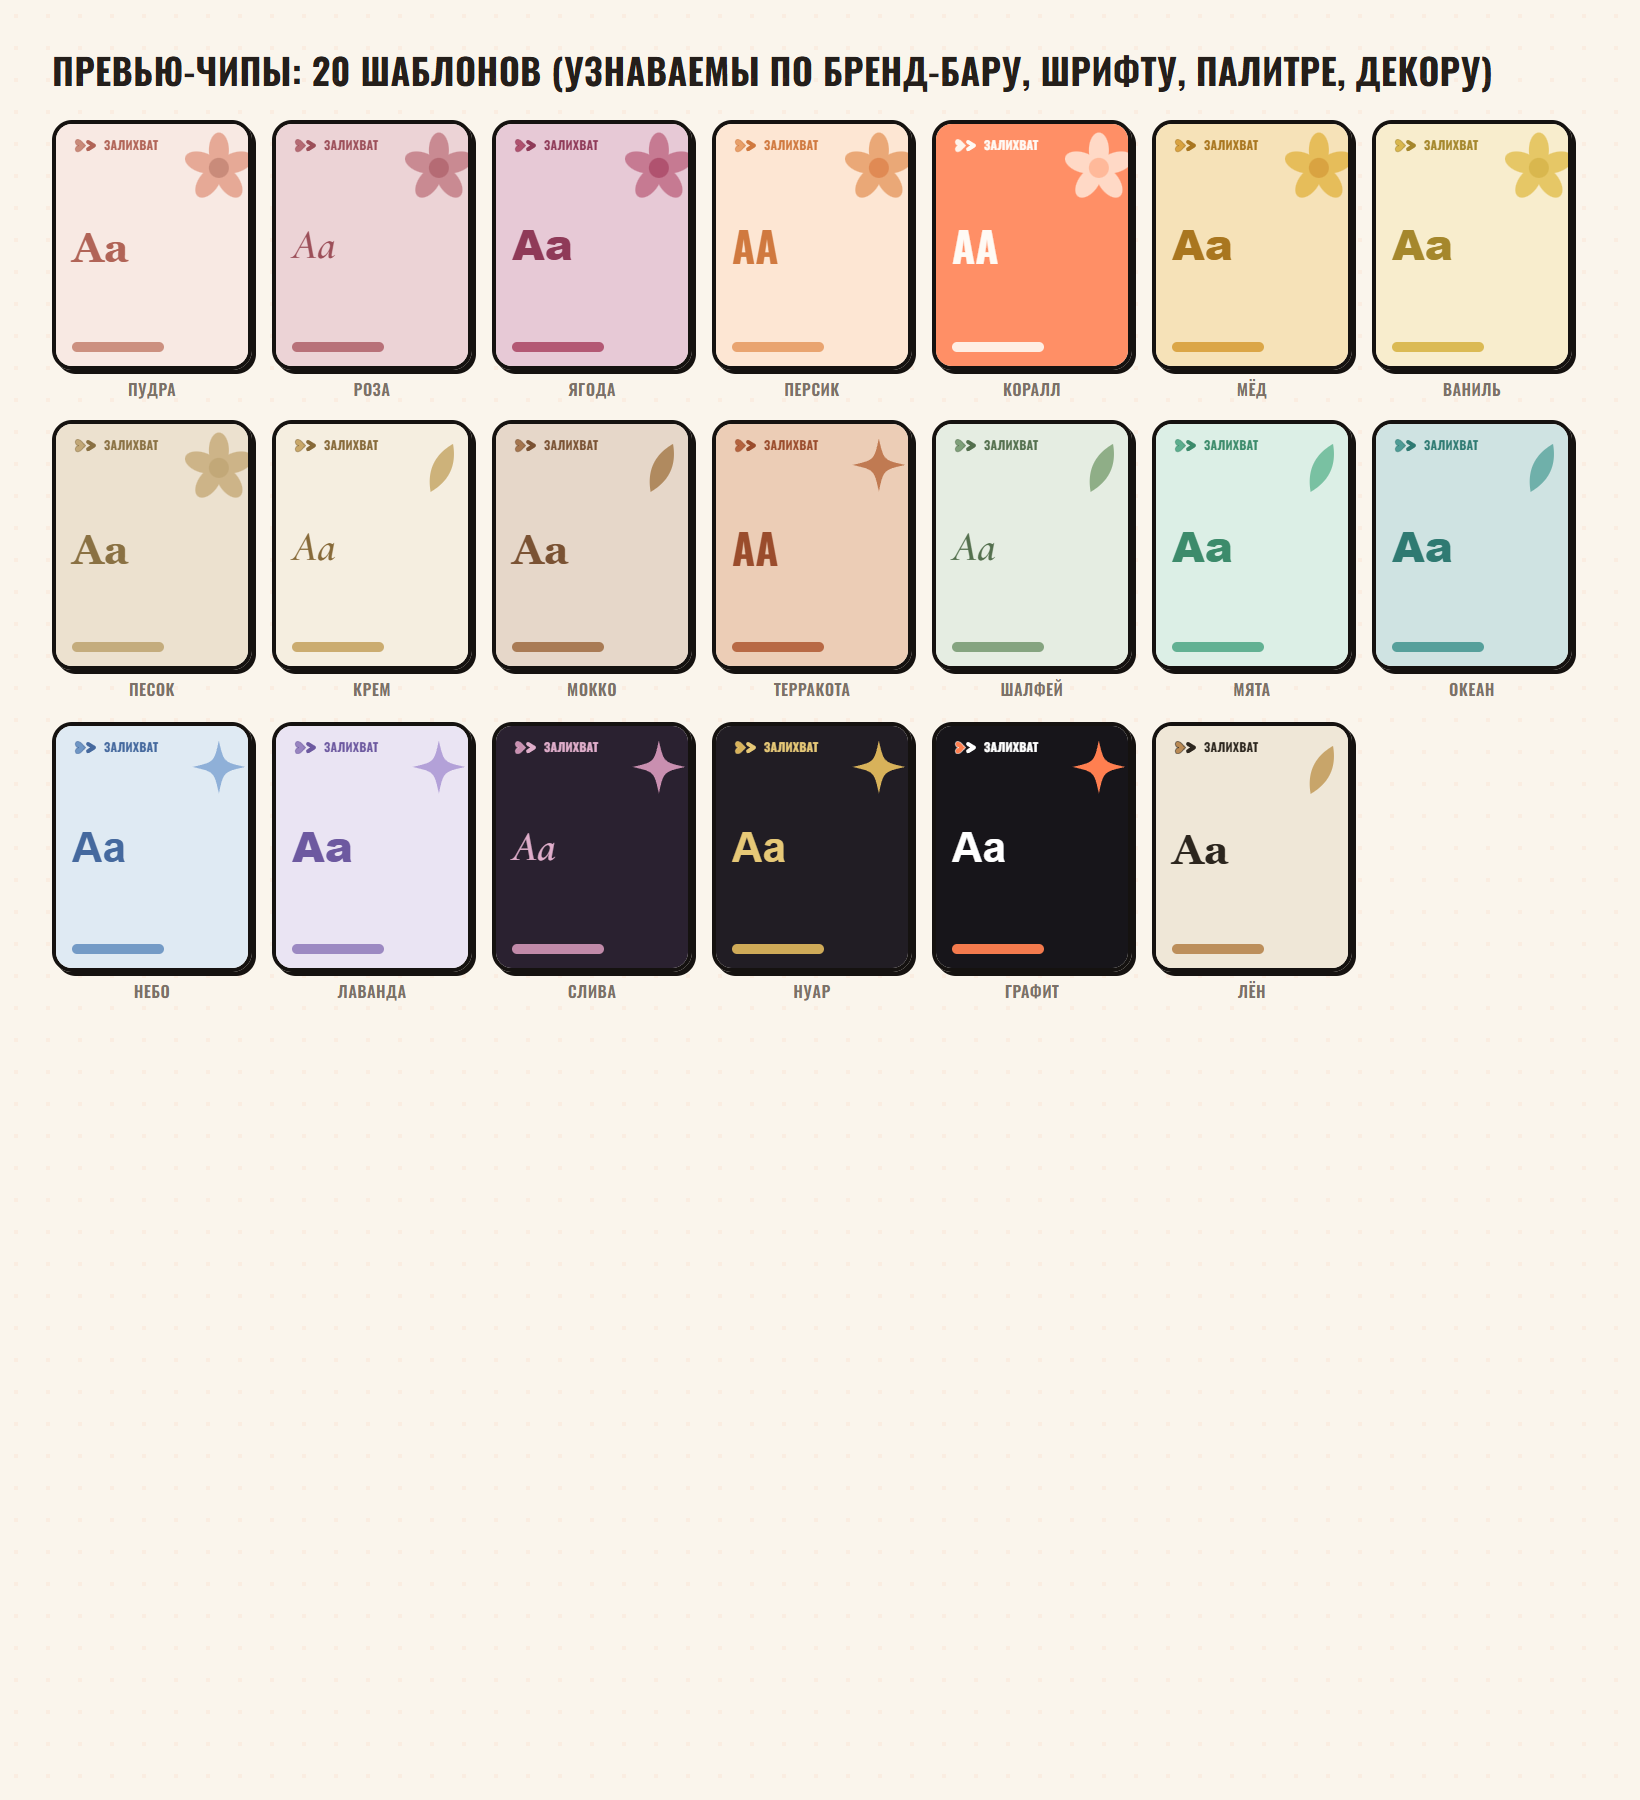
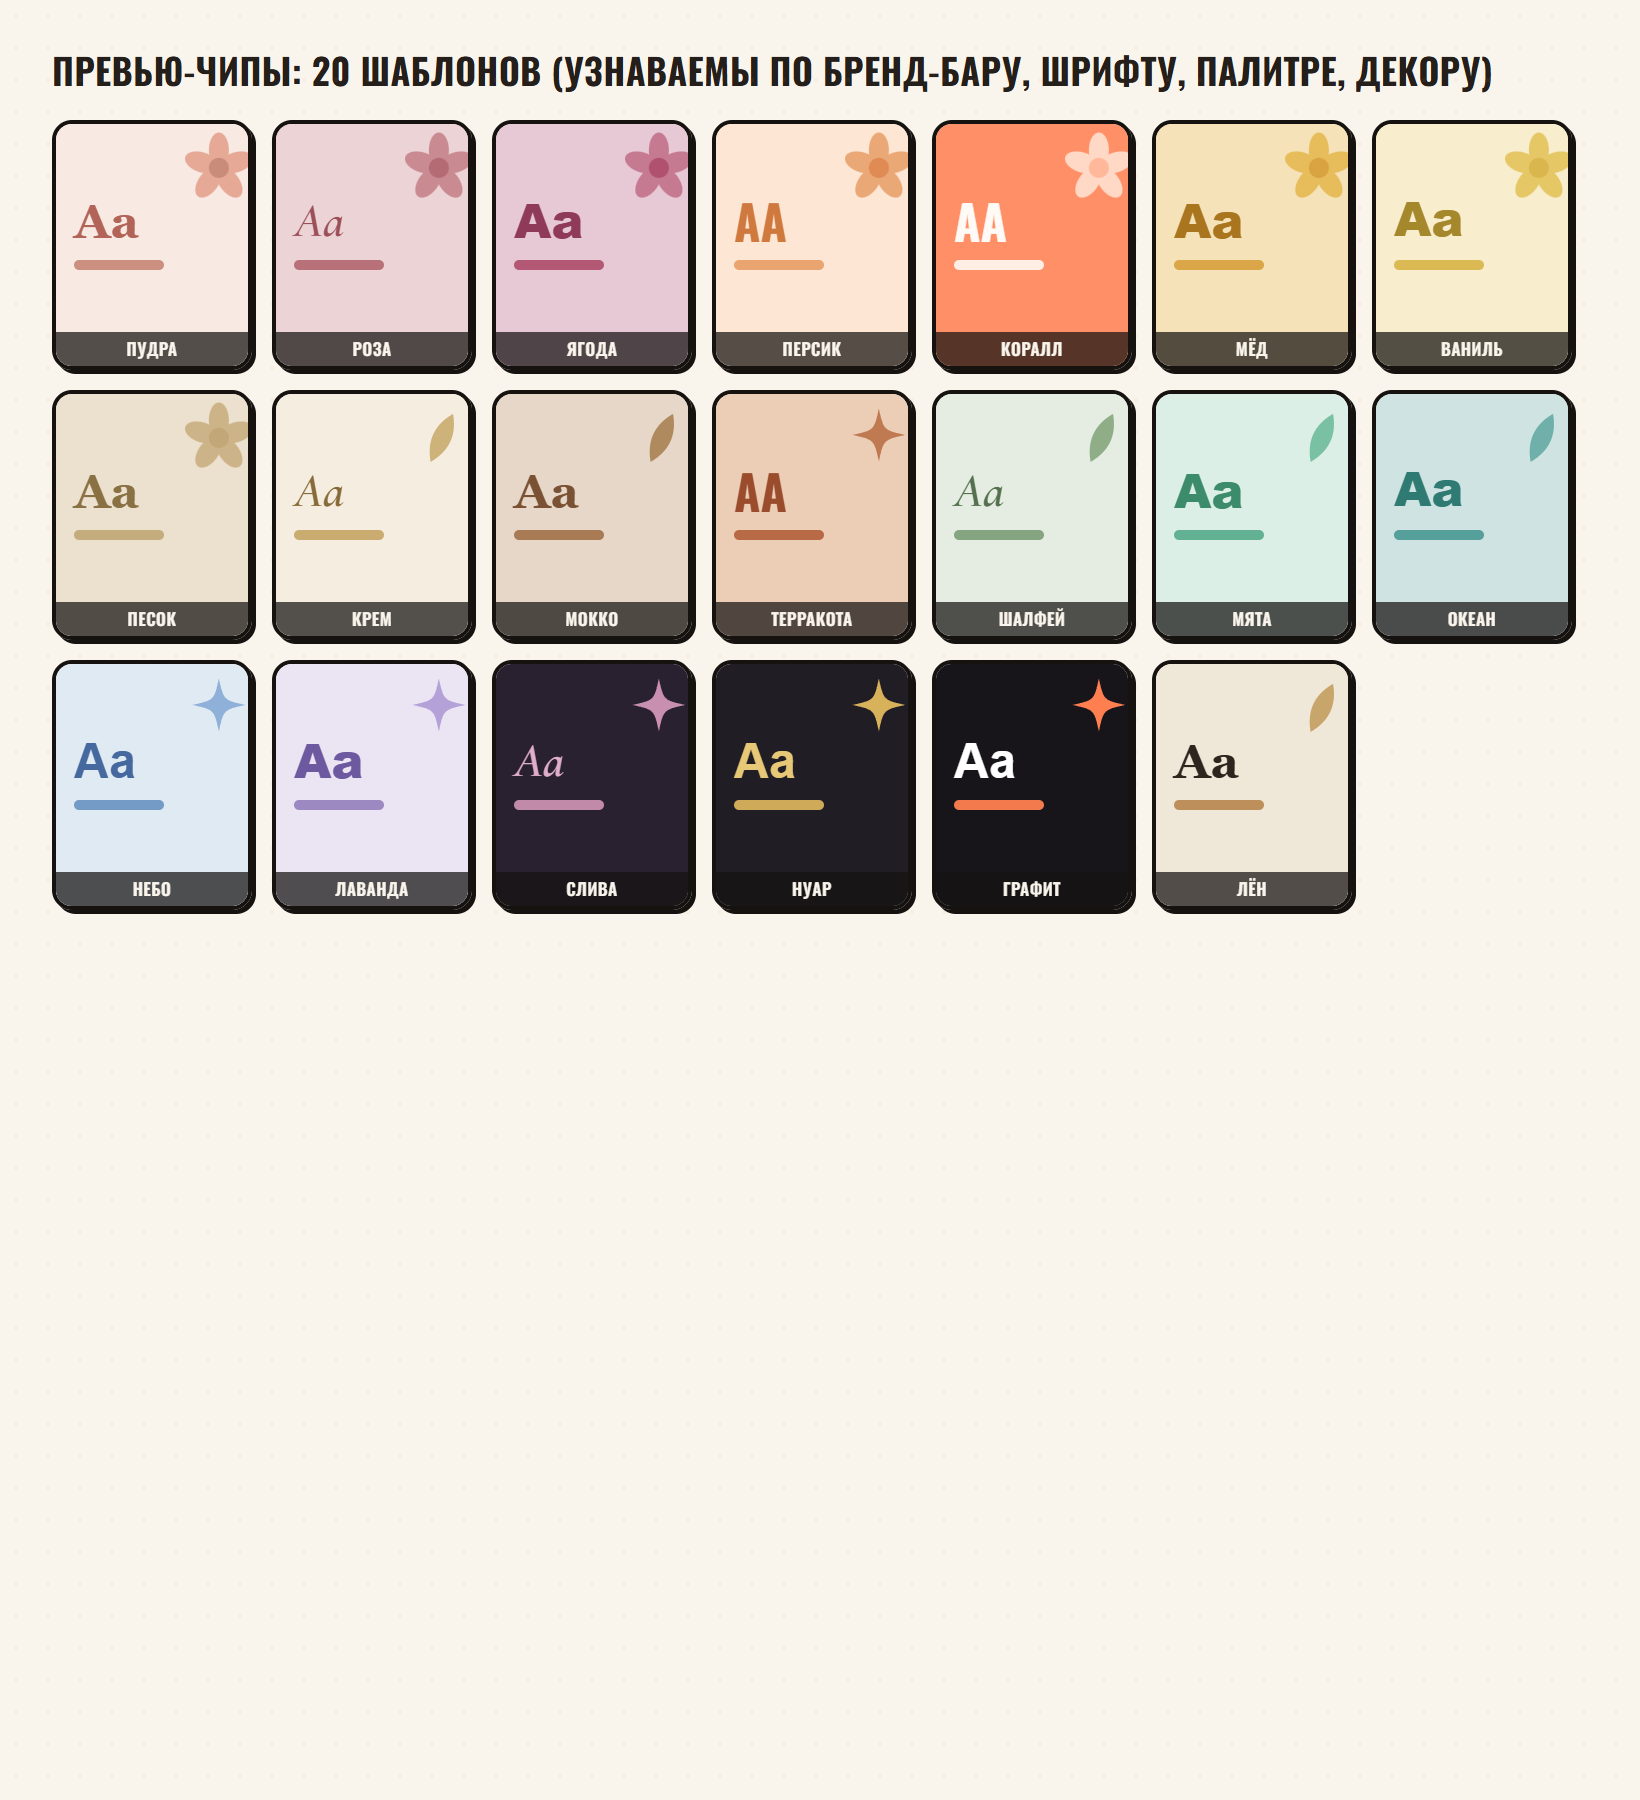
Шаблоны: убрать нашу брендировку со слайдов (Залихват/aksalex.com/@zalihvat_ai) - чистый дизайн+текст пользователя, оставлен номер слайда; чипы без бренд-бара, фикс перекрытия названия; регистрация 10→5 минут

diff --git a/app/frontend/styles.css b/app/frontend/styles.css
@@ -182,12 +182,9 @@ em{font-style:normal;color:var(--coral)}
 .cdchip{cursor:pointer;border:2.5px solid var(--ink);border-radius:10px;overflow:hidden;aspect-ratio:4/5;position:relative;box-shadow:2px 2px 0 var(--ink);transition:transform .1s}
 .cdchip:hover{transform:translate(-1px,-1px)}
 .cdchip.on{outline:3px solid var(--coral);outline-offset:1px}
-.cdchip .cd-mini{position:absolute;inset:0;display:flex;flex-direction:column;justify-content:space-between;padding:7px 8px;font-family:"Oswald";font-weight:700;text-transform:uppercase;line-height:1;background:var(--t-bg);background-size:cover;background-position:center}
-.cdchip .cd-mini .cd-top{display:flex;align-items:center;gap:3px;position:relative;z-index:2}
-.cdchip .cd-mini .cd-top svg{width:13px;height:auto;display:block}
-.cdchip .cd-mini .cd-top span{font-family:"Oswald";font-weight:700;text-transform:uppercase;font-size:6px;letter-spacing:.02em;color:var(--t-title)}
-.cdchip .cd-mini .m1{font-size:21px;line-height:.9;color:var(--t-title);position:relative;z-index:2}
-.cdchip .cd-mini .m2{width:58%;height:5px;border-radius:3px;background:var(--t-acc);opacity:.95;position:relative;z-index:2}
+.cdchip .cd-mini{position:absolute;inset:0;display:flex;flex-direction:column;justify-content:center;padding:8px 9px 18px;font-family:"Oswald";font-weight:700;text-transform:uppercase;line-height:1;background:var(--t-bg);background-size:cover;background-position:center}
+.cdchip .cd-mini .m1{font-size:24px;line-height:.9;color:var(--t-title);position:relative;z-index:2}
+.cdchip .cd-mini .m2{width:58%;height:5px;border-radius:3px;margin-top:8px;background:var(--t-acc);opacity:.95;position:relative;z-index:2}
 .cdchip .cd-name{position:absolute;bottom:0;left:0;right:0;background:rgba(21,18,16,.72);color:#faf5ec;font-family:"Oswald";font-weight:600;text-transform:uppercase;font-size:8.5px;letter-spacing:.03em;text-align:center;padding:2px 2px}
 
 /* превью готовых слайдов */
@@ -238,7 +235,7 @@ em{font-style:normal;color:var(--coral)}
 .cslide .cs-brandname{display:flex;align-items:center;gap:15px;font-family:"Oswald";font-weight:700;text-transform:uppercase;letter-spacing:.02em;font-size:38px;color:var(--t-title)}
 .cslide .cs-logo{width:46px;height:auto;flex:none;display:block}
 .cslide .cs-url{font-family:"Oswald";font-weight:600;text-transform:uppercase;font-size:26px;letter-spacing:.04em;color:var(--t-acc)}
-.cslide .cs-foot{position:absolute;bottom:70px;left:100px;right:100px;display:flex;align-items:center;justify-content:space-between;z-index:2;font-family:"Oswald";font-weight:600;text-transform:uppercase;font-size:26px;letter-spacing:.04em;color:var(--t-acc)}
+.cslide .cs-foot{position:absolute;bottom:70px;left:100px;right:100px;display:flex;align-items:center;justify-content:flex-end;z-index:2;font-family:"Oswald";font-weight:600;text-transform:uppercase;font-size:26px;letter-spacing:.04em;color:var(--t-acc)}
 .cslide.st .cs-top{top:120px}.cslide.st .cs-foot{bottom:120px}
 .cslide.sq .cs-brandname{font-size:34px}.cslide.sq .cs-url,.cslide.sq .cs-foot{font-size:23px}
 /* форматы: квадрат (пост) и вертикаль (сториз) */

diff --git a/app/frontend/app.js b/app/frontend/app.js
@@ -684,12 +684,7 @@
     if (custom && carState.customBg) mini.style.backgroundImage = "url(" + carState.customBg + ")";
     const id = cls.replace("ct-", "");
     const fp = fontOf(id);
-    // мини бренд-бар (как на реальном слайде) - для узнаваемости шаблона
-    const top = el("div", "cd-top");
-    top.insertAdjacentHTML("afterbegin", markSVG("var(--t-acc)", "var(--t-title)"));
-    top.appendChild(el("span", null, "Залихват"));
-    mini.appendChild(top);
-    // образец шрифта заголовка в цвете шаблона
+    // образец шрифта заголовка в цвете шаблона (без брендинга)
     const m1 = el("div", "m1", "Аа");
     m1.style.fontFamily = fp.tf; m1.style.textTransform = fp.up ? "uppercase" : "none";
     m1.style.fontStyle = fp.ital ? "italic" : "normal"; m1.style.fontWeight = fp.wght || 700;
@@ -775,17 +770,7 @@
     const node = el("div", "cslide ct-" + eff + (dim.cls ? " " + dim.cls : "") + (s.cover ? " cover" : ""));
     if (useCustom && carState.customBg) { node.style.backgroundImage = "url(" + carState.customBg + ")"; node.appendChild(el("div", "cs-ov")); }
     else node.insertAdjacentHTML("afterbegin", decoSVG(eff));
-    // верхний бренд-бар: лого + имя слева, сайт справа
-    const cst = getComputedStyle(node);
-    const accCol = cst.getPropertyValue("--t-acc").trim() || "#ff7f50";
-    const titleCol = cst.getPropertyValue("--t-title").trim() || "#151210";
-    const top = el("div", "cs-top");
-    const bn = el("div", "cs-brandname");
-    bn.insertAdjacentHTML("afterbegin", markSVG(accCol, titleCol));
-    bn.appendChild(el("span", null, "Залихват"));
-    top.appendChild(bn);
-    top.appendChild(el("span", "cs-url", "aksalex.com"));
-    node.appendChild(top);
+    // без нашей брендировки - только дизайн и текст пользователя
     // заголовок и текст с фирменным шрифтом шаблона
     const fp = fontOf(eff);
     const title = el("div", "cs-title", s.title || "");
@@ -795,11 +780,8 @@
     title.style.fontWeight = fp.wght || 700;
     node.appendChild(title);
     if (s.text) { const tx = el("div", "cs-text", s.text); tx.style.fontFamily = fp.bf; node.appendChild(tx); }
-    // футер: хэндл + номер слайда
-    const foot = el("div", "cs-foot");
-    foot.appendChild(el("span", null, "@zalihvat_ai"));
-    foot.appendChild(el("span", null, total > 1 ? (idx + 1) + "/" + total : ""));
-    node.appendChild(foot);
+    // только номер слайда для карусели (не брендинг)
+    if (total > 1) { const foot = el("div", "cs-foot"); foot.appendChild(el("span", null, (idx + 1) + "/" + total)); node.appendChild(foot); }
     const stage = $("cs-stage"); stage.appendChild(node);
     fitSlide(node);
     let url = "";

diff --git a/app/frontend/i18n.js b/app/frontend/i18n.js
@@ -9,7 +9,7 @@
       tab_login: "Вход", tab_reg: "Регистрация",
       auth_title_login: "С возвращением!", auth_title_reg: "Создать аккаунт",
       auth_lead_login: "Заходи - и собери первый готовый пост, пока малыш спит.",
-      auth_lead_reg: "Зарегистрируйся - и получи первый готовый пост за 10 минут.",
+      auth_lead_reg: "Зарегистрируйся - и получи первый готовый пост за 5 минут.",
       lbl_email: "Email", lbl_password: "Пароль", ph_password: "минимум 6 символов",
       consent_html: 'Согласен(а) на <a href="https://aksalex.com/consent.html" target="_blank" rel="noopener">обработку персональных данных</a> и принимаю <a href="https://aksalex.com/offer.pdf" target="_blank" rel="noopener">оферту</a>',
       btn_login: "Войти", btn_register: "Создать аккаунт", btn_forgot: "Забыли пароль?",
@@ -115,7 +115,7 @@
       tab_login: "Log in", tab_reg: "Sign up",
       auth_title_login: "Welcome back!", auth_title_reg: "Create account",
       auth_lead_login: "Log in - and put together your first ready post while the baby naps.",
-      auth_lead_reg: "Sign up - and get your first ready post in 10 minutes.",
+      auth_lead_reg: "Sign up - and get your first ready post in 5 minutes.",
       lbl_email: "Email", lbl_password: "Password", ph_password: "at least 6 characters",
       consent_html: 'I agree to the <a href="https://aksalex.com/consent.html" target="_blank" rel="noopener">processing of personal data</a> and accept the <a href="https://aksalex.com/offer.pdf" target="_blank" rel="noopener">offer</a>',
       btn_login: "Log in", btn_register: "Create account", btn_forgot: "Forgot password?",

diff --git a/brand/chips-preview.html b/brand/chips-preview.html
@@ -28,15 +28,13 @@ Object.keys(CFONT).forEach(id=>{
   const cell=document.createElement("div");cell.className="cell";
   const chip=document.createElement("div");chip.className="cdchip";
   const mini=document.createElement("div");mini.className="cd-mini ct-"+id;
-  const top=document.createElement("div");top.className="cd-top";
-  top.insertAdjacentHTML("afterbegin",markSVG("var(--t-acc)","var(--t-title)"));
-  const nm=document.createElement("span");nm.textContent="Залихват";top.appendChild(nm);mini.appendChild(top);
   const m1=document.createElement("div");m1.className="m1";m1.textContent="Аа";
   m1.style.fontFamily=fp.tf;m1.style.textTransform=fp.up?"uppercase":"none";m1.style.fontStyle=fp.ital?"italic":"normal";m1.style.fontWeight=fp.wght;mini.appendChild(m1);
   mini.appendChild(Object.assign(document.createElement("div"),{className:"m2"}));
   mini.insertAdjacentHTML("beforeend",miniDecoSVG(d.s,d.a,d.b));
-  chip.appendChild(mini);cell.appendChild(chip);
-  const lab=document.createElement("div");lab.className="lab";lab.textContent=NAMES[id];cell.appendChild(lab);
+  chip.appendChild(mini);
+  const cn=document.createElement("div");cn.className="cd-name";cn.textContent=NAMES[id];chip.appendChild(cn);
+  cell.appendChild(chip);
   g.appendChild(cell);
 });
 </script>
